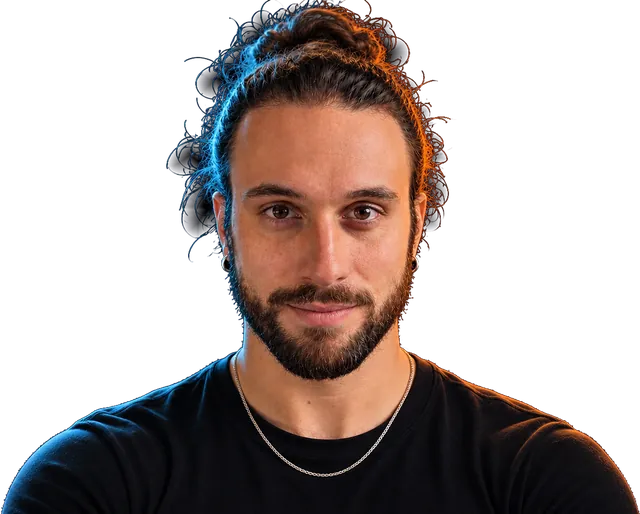
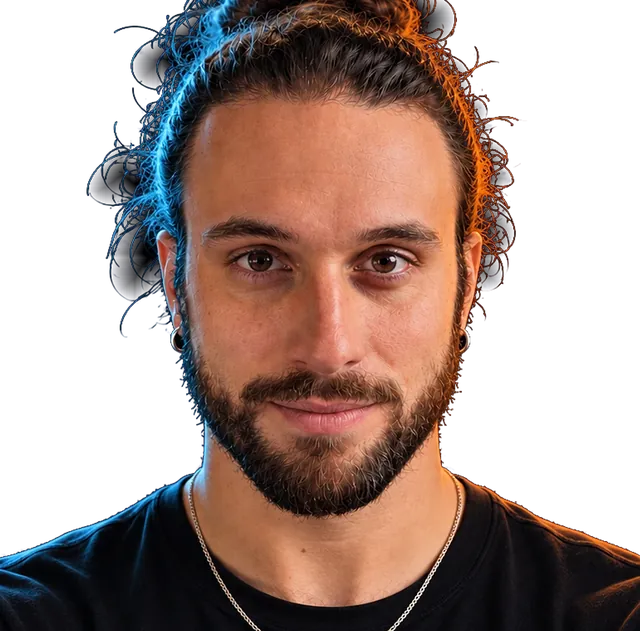
feat(escritorio): retrato más cercano en la tablet

diff --git a/src/components/desk/Gadgets.tsx b/src/components/desk/Gadgets.tsx
@@ -69,9 +69,9 @@ export function Phone({ t, lang, position, rotation }: { t: DeskCopy; lang: stri
 const PHOTO_URL = `${process.env.NEXT_PUBLIC_BASE_PATH || ""}/desk/tablet-retrato.webp`;
 const SCREEN_W = 0.158;
 const SCREEN_H = 0.236;
-const PHOTO_H = SCREEN_W * (514 / 640);
-// En la mano: a unos 42 cm del ojo siguiendo la mirada en reposo, con la pantalla de cara a la silla
-const HOLD_POS = new Vector3(0.03, 0.372, 0.41);
+const PHOTO_H = SCREEN_W * (631 / 640);
+// En la mano: a unos 38 cm del ojo siguiendo la mirada en reposo, con la pantalla de cara a la silla
+const HOLD_POS = new Vector3(0.025, 0.383, 0.445);
 const HOLD_ROT = new Quaternion().setFromEuler(new Euler(Math.PI / 2 - 0.27 - 0.07, 0, 0));
 const LIFT_S = 1.1;
 const HOLD_S = 3.4;

diff --git a/src/components/desk/screens.ts b/src/components/desk/screens.ts
@@ -391,8 +391,8 @@ export const drawTablet =
       ctx.fill();
     }
     const { time, date } = clock(lang);
-    text(ctx, date, w / 2, h * 0.1, mono(f, 22), "#d4e0ff", { align: "center" });
-    text(ctx, time, w / 2, h * 0.25, display(f, 168, 200), "#f4f7ff", { align: "center", glow: 16 });
+    text(ctx, date, w / 2, h * 0.08, mono(f, 22), "#d4e0ff", { align: "center" });
+    text(ctx, time, w / 2, h * 0.21, display(f, 168, 200), "#f4f7ff", { align: "center", glow: 16 });
   };
 
 /* ---------- superficies ---------- */
